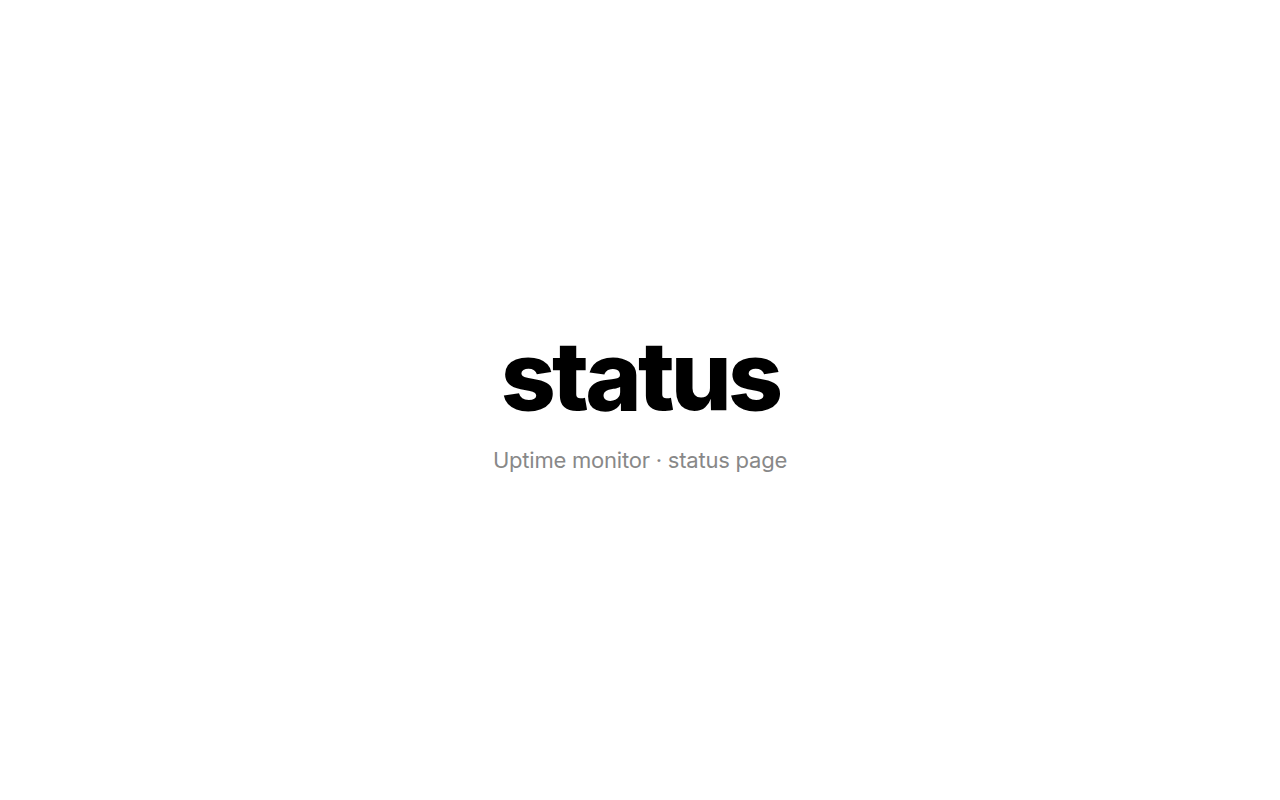
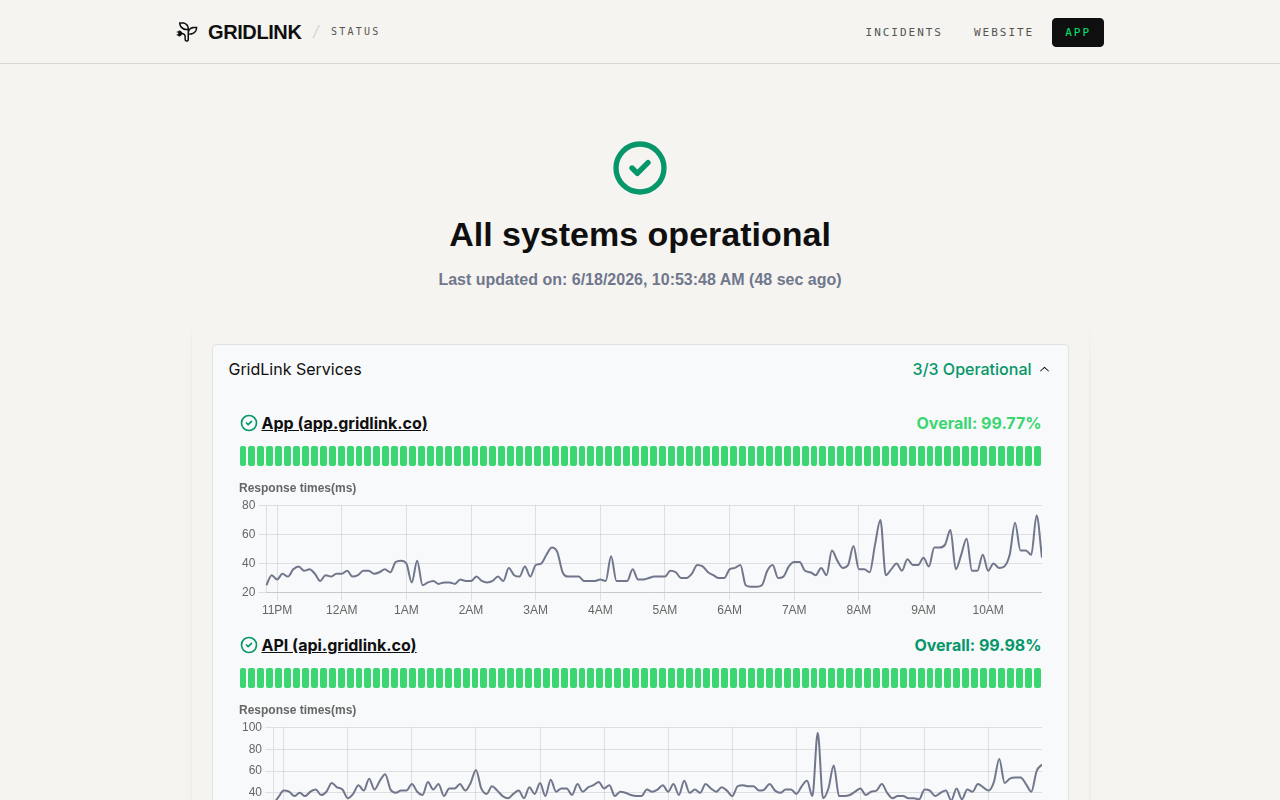
Update project URLs and real status-page thumbnail
- agent-html liveUrl -> share.gridlink.dev; status liveUrl -> status.gridlink.co
- replace status placeholder with real screenshot (status.gridlink.co)
- status description updated to match the live page

diff --git a/src/data/content.ts b/src/data/content.ts
@@ -100,7 +100,7 @@ export const projects: Project[] = [
       "Claude Code plugin + Cloudflare Worker that renders agent output as styled HTML pages — shadcn/ui, Mermaid, charts, search, versioning.",
     image: "/projects/agent-html.png",
     repoUrl: "https://github.com/gabrielbryk/agent-html",
-    liveUrl: "https://share.gabebryk.com",
+    liveUrl: "https://share.gridlink.dev",
   },
   {
     title: "agents",
@@ -125,10 +125,10 @@ export const projects: Project[] = [
     title: "Status Page",
     category: "Infra",
     tag: "INFRASTRUCTURE",
-    description: "Uptime monitor and status page for my self-hosted services, powered by Upptime.",
+    description: "Live status page with uptime monitoring and response-time history for production services.",
     image: "/projects/status.png",
     repoUrl: "https://github.com/gabrielbryk/vigilant-octo-carnival",
-    liveUrl: "https://status.gabebryk.com",
+    liveUrl: "https://status.gridlink.co",
   },
 ];
 